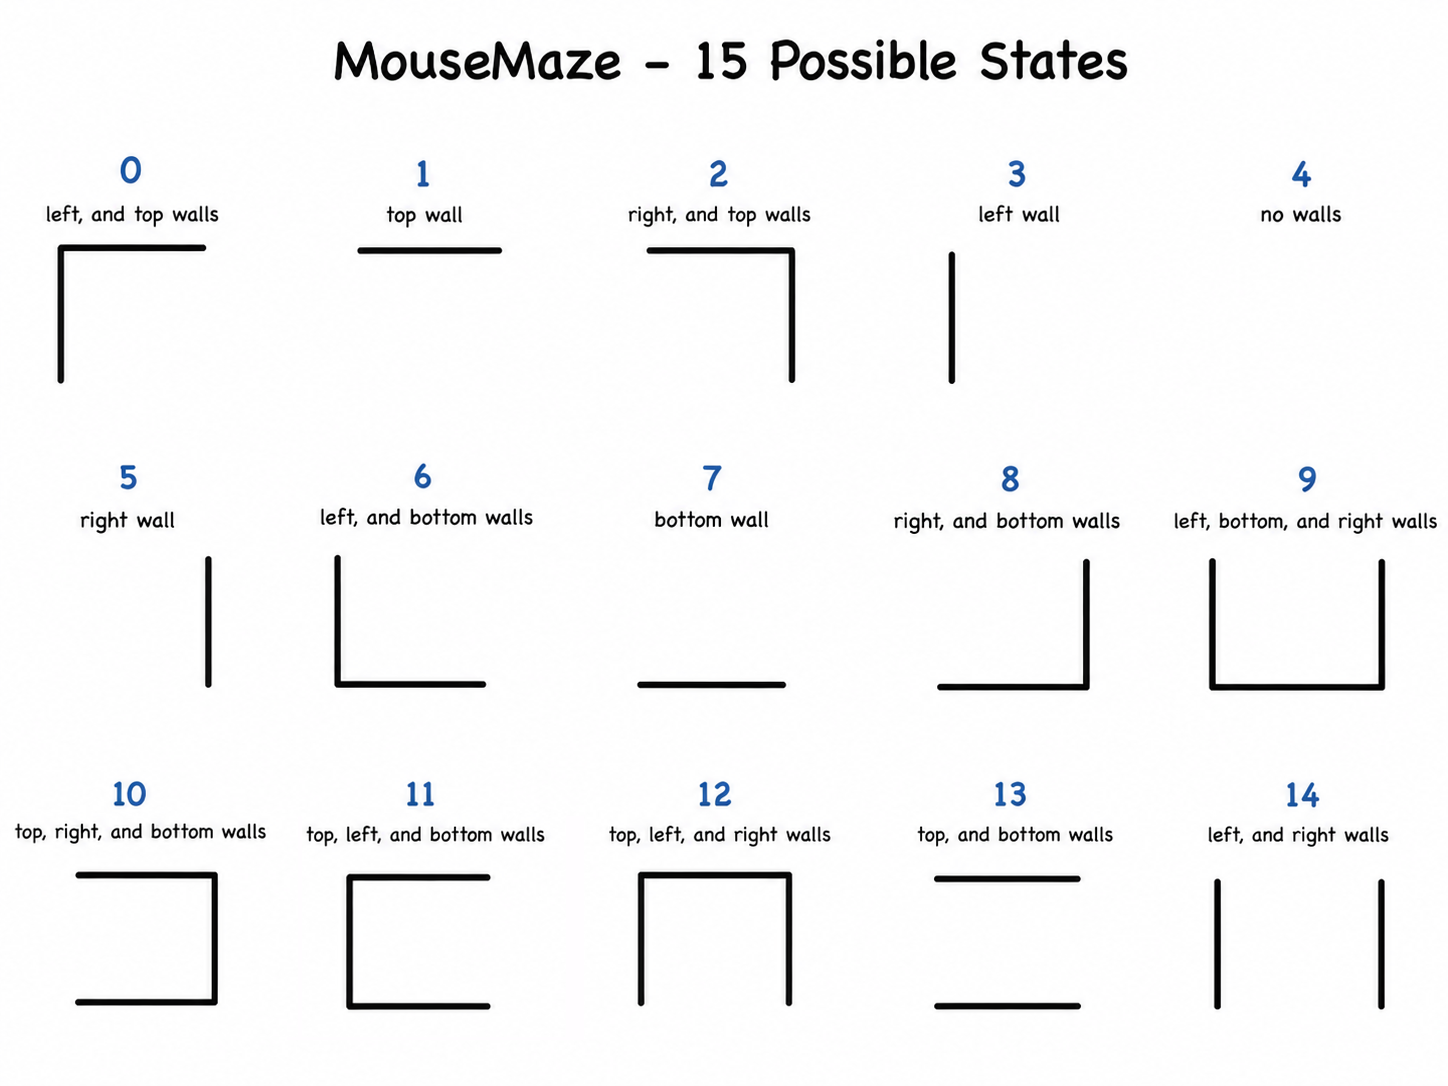
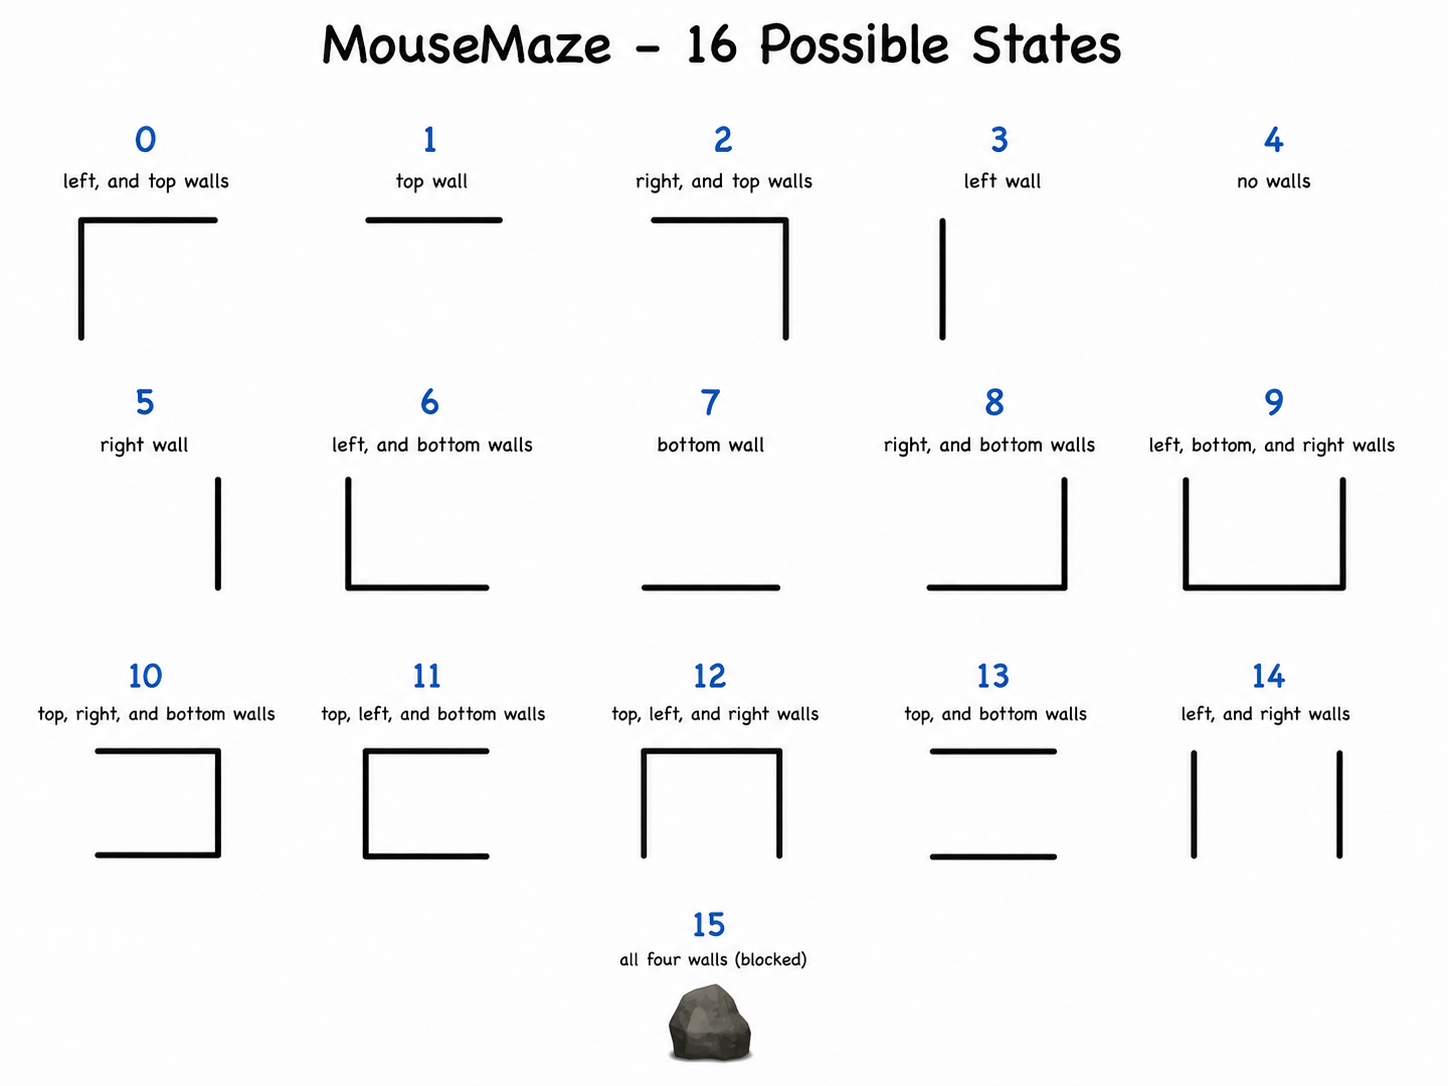
Added rocks

diff --git a/src/visualization.py b/src/visualization.py
@@ -12,8 +12,8 @@ import matplotlib.pyplot as plt
 import matplotlib.colors as mcolors
 import matplotlib.image as mpimg
 
-from environment import ACTION_SYMBOLS, is_terminal
-from maze_renderer import draw_maze
+from environment import ACTION_SYMBOLS, is_rock, is_terminal
+from maze_renderer import ROCK_CODE, draw_maze
 
 
 IMAGES_DIR = Path(__file__).resolve().parent.parent / 'images'
@@ -27,6 +27,7 @@ HARTY_IMAGE_PATHS = {
     'right': IMAGES_DIR / 'Harty_right.png',
 }
 HOLE_IMAGE_PATH = IMAGES_DIR / 'Dead.png'
+ROCK_IMAGE_PATH = IMAGES_DIR / 'Rock.png'
 PORTAL_IMAGE_PATHS = [
     IMAGES_DIR / 'Portal1.png',
     IMAGES_DIR / 'Portal2.png',
@@ -42,9 +43,11 @@ def make_value_colormap():
     """
     low = plt.cm.RdBu(np.linspace(0.0, 0.5, 128))      # red -> white
     high = plt.cm.PuOr(np.linspace(0.5, 1.0, 128))     # white -> purple
-    return mcolors.LinearSegmentedColormap.from_list(
+    cmap = mcolors.LinearSegmentedColormap.from_list(
         'value_cmap', np.vstack((low, high))
     )
+    cmap.set_bad('white')                              # NaN cells (rocks) stay blank
+    return cmap
 
 
 def plot_value_heatmap(ax, value, cmap=None, vmin=-1.0, vmax=1.0):
@@ -63,13 +66,15 @@ def plot_value_heatmap(ax, value, cmap=None, vmin=-1.0, vmax=1.0):
     )
 
 
-def overlay_policy_arrows(ax, policy, treasure=None, holes=(),
+def overlay_policy_arrows(ax, policy, treasure=None, holes=(), maze=None,
                           fontsize=18, color='black'):
-    """Write the action arrow at the center of each cell, skipping terminals."""
+    """Write the action arrow at the center of each cell, skipping terminals and rocks."""
     rows, cols = policy.shape
     for r in range(rows):
         for c in range(cols):
             if treasure is not None and is_terminal((r, c), treasure, holes):
+                continue
+            if maze is not None and is_rock((r, c), maze):
                 continue
             symbol = ACTION_SYMBOLS.get(policy[r, c], '')
             if symbol:
@@ -123,6 +128,10 @@ def load_hole_image():
     return mpimg.imread(HOLE_IMAGE_PATH)
 
 
+def load_rock_image():
+    return mpimg.imread(ROCK_IMAGE_PATH)
+
+
 def load_portal_image(pair_index):
     return mpimg.imread(PORTAL_IMAGE_PATHS[pair_index])
 
@@ -134,6 +143,16 @@ def overlay_holes(ax, holes):
     img = load_hole_image()
     for cell in holes:
         overlay_image_at_cell(ax, img, cell)
+
+
+def overlay_rocks(ax, maze):
+    """Stamp Rock.png on every cell whose wall code is ROCK_CODE (15)."""
+    rock_cells = np.argwhere(maze == ROCK_CODE)
+    if rock_cells.size == 0:
+        return
+    img = load_rock_image()
+    for r, c in rock_cells:
+        overlay_image_at_cell(ax, img, (int(r), int(c)))
 
 
 def overlay_portals(ax, portals):
@@ -165,8 +184,9 @@ def plot_policy_and_value(
 
     plot_value_heatmap(ax, value, cmap=cmap, vmin=vmin, vmax=vmax)
     draw_maze(ax, maze)
-    overlay_policy_arrows(ax, policy, treasure=treasure, holes=holes)
+    overlay_policy_arrows(ax, policy, treasure=treasure, holes=holes, maze=maze)
     overlay_holes(ax, holes)
+    overlay_rocks(ax, maze)
     overlay_portals(ax, portals)
     overlay_image_at_cell(ax, load_treasure_image(), treasure)
     overlay_image_at_cell(ax, load_harty_image(facing=harty_facing), harty)
@@ -200,6 +220,7 @@ def plot_value_only(
     plot_value_heatmap(ax, value, cmap=cmap, vmin=vmin, vmax=vmax)
     draw_maze(ax, maze)
     overlay_holes(ax, holes)
+    overlay_rocks(ax, maze)
     overlay_portals(ax, portals)
     overlay_image_at_cell(ax, load_treasure_image(), treasure)
     overlay_image_at_cell(ax, load_harty_image(facing=harty_facing), harty)

diff --git a/src/policy_iteration.py b/src/policy_iteration.py
@@ -13,16 +13,21 @@ cell is terminal (no bootstrap).
 
 import numpy as np
 
-from environment import ACTIONS, is_terminal, step
+from environment import ACTIONS, is_rock, is_terminal, step
+
+
+def _is_skip(cell, treasure, holes, maze):
+    """Cells with no value/policy: terminals (treasure + holes) and rocks."""
+    return is_terminal(cell, treasure, holes) or is_rock(cell, maze)
 
 
 def _random_deterministic_policy(maze, treasure, holes, rng):
-    """Random action at every non-terminal cell; blank string at every terminal."""
+    """Random action at every playable cell; blank at terminals and rocks."""
     rows, cols = maze.shape
     policy = np.empty((rows, cols), dtype=object)
     for r in range(rows):
         for c in range(cols):
-            if is_terminal((r, c), treasure, holes):
+            if _is_skip((r, c), treasure, holes, maze):
                 policy[r, c] = ''
             else:
                 policy[r, c] = rng.choice(ACTIONS)
@@ -57,7 +62,7 @@ def policy_evaluation(policy, treasure, gamma, maze, n_sweeps=100, tol=1e-6,
         q_new = np.zeros_like(q)
         for r in range(rows):
             for c in range(cols):
-                if is_terminal((r, c), treasure, holes):
+                if _is_skip((r, c), treasure, holes, maze):
                     continue
                 for a in ACTIONS:
                     q_new[r, c, _action_index(a)] = q_update(
@@ -74,12 +79,15 @@ def policy_evaluation(policy, treasure, gamma, maze, n_sweeps=100, tol=1e-6,
 def value_from_q(q_table, policy, treasure, maze, holes=()):
     """Collapse Q to state-value V by reading Q[s, policy(s)] at each cell.
 
-    Terminal cells (treasure + holes) keep V = 0.
+    Terminal cells (treasure + holes) and rocks keep V = NaN so plots mask them.
     """
     rows, cols = maze.shape
     v = np.zeros((rows, cols))
     for r in range(rows):
         for c in range(cols):
+            if is_rock((r, c), maze):
+                v[r, c] = np.nan
+                continue
             if is_terminal((r, c), treasure, holes):
                 continue
             v[r, c] = q_table[r, c, _action_index(policy[r, c])]
@@ -87,7 +95,7 @@ def value_from_q(q_table, policy, treasure, maze, holes=()):
 
 
 def greedy_policy(q_table, treasure, maze, rng=None, holes=()):
-    """Greedy policy from Q-table. Random tie-break, blank string at terminals."""
+    """Greedy policy from Q-table. Random tie-break, blank at terminals and rocks."""
     if rng is None:
         rng = np.random.default_rng()
 
@@ -96,7 +104,7 @@ def greedy_policy(q_table, treasure, maze, rng=None, holes=()):
 
     for r in range(rows):
         for c in range(cols):
-            if is_terminal((r, c), treasure, holes):
+            if _is_skip((r, c), treasure, holes, maze):
                 policy[r, c] = ''
                 continue
             row = q_table[r, c]
@@ -120,7 +128,7 @@ def uniform_random_policy_value(treasure, gamma, maze, n_sweeps=200, tol=1e-6,
         v_new = np.zeros_like(v)
         for r in range(rows):
             for c in range(cols):
-                if is_terminal((r, c), treasure, holes):
+                if _is_skip((r, c), treasure, holes, maze):
                     continue
                 total = 0.0
                 for a in ACTIONS:
@@ -136,6 +144,11 @@ def uniform_random_policy_value(treasure, gamma, maze, n_sweeps=200, tol=1e-6,
             v = v_new
             break
         v = v_new
+
+    for r in range(rows):
+        for c in range(cols):
+            if is_rock((r, c), maze):
+                v[r, c] = np.nan
 
     return v
 

diff --git a/src/environment.py b/src/environment.py
@@ -15,7 +15,7 @@ Two optional hazards extend the basic maze:
 
 import numpy as np
 
-from maze_renderer import WALL_CODES
+from maze_renderer import ROCK_CODE, WALL_CODES
 
 
 ACTIONS = ['up', 'down', 'left', 'right']
@@ -97,12 +97,18 @@ def apply_portal(position, portals):
     return position
 
 
+def is_rock(cell, maze):
+    """Rock cell (code 15) is impassable. Harty cannot stand on it."""
+    return int(maze[cell]) == ROCK_CODE
+
+
 def next_state(position, action, maze):
     """Return the cell reached by taking `action` from `position`.
 
     The action is blocked (agent stays put) if the current cell's wall code
-    forbids it, or if the move would leave the grid. Portals and hazards are
-    NOT applied here; see `step` for the full transition.
+    forbids it, the target cell is a rock, or the move would leave the grid.
+    Portals and hazards are NOT applied here; see `step` for the full
+    transition.
     """
     code = int(maze[position])
     if action in BLOCKED_ACTIONS_BY_CODE[code]:
@@ -114,6 +120,9 @@ def next_state(position, action, maze):
 
     rows, cols = maze.shape
     if not (0 <= next_row < rows and 0 <= next_col < cols):
+        return position
+
+    if is_rock((next_row, next_col), maze):
         return position
 
     return (next_row, next_col)

diff --git a/src/animation.py b/src/animation.py
@@ -21,6 +21,7 @@ from visualization import (
     overlay_image_at_cell,
     overlay_policy_arrows,
     overlay_portals,
+    overlay_rocks,
     plot_value_heatmap,
 )
 
@@ -110,8 +111,9 @@ def animate_path(
         plot_value_heatmap(ax, value, cmap=cmap, vmin=vmin, vmax=vmax)
     draw_maze(ax, maze)
     if policy is not None:
-        overlay_policy_arrows(ax, policy, treasure=treasure, holes=holes)
+        overlay_policy_arrows(ax, policy, treasure=treasure, holes=holes, maze=maze)
     overlay_holes(ax, holes)
+    overlay_rocks(ax, maze)
     overlay_portals(ax, portals)
     overlay_image_at_cell(ax, load_treasure_image(), treasure)
     if title:

diff --git a/src/play_mode.py b/src/play_mode.py
@@ -22,6 +22,7 @@ from visualization import (
     overlay_holes,
     overlay_image_at_cell,
     overlay_portals,
+    overlay_rocks,
 )
 
 
@@ -104,6 +105,7 @@ def launch_game_window(maze, treasure, start, holes=(), portals=(), figsize=(7, 
 
     draw_maze(ax, maze)
     overlay_holes(ax, holes)
+    overlay_rocks(ax, maze)
     overlay_portals(ax, portals)
     overlay_image_at_cell(ax, load_treasure_image(), treasure)
     initial_image = load_harty_image('idle')

diff --git a/src/maze_renderer.py b/src/maze_renderer.py
@@ -24,7 +24,10 @@ WALL_CODES = {
     12: {'top', 'left', 'right'},
     13: {'top', 'bottom'},
     14: {'left', 'right'},
+    15: {'top', 'right', 'bottom', 'left'},
 }
+
+ROCK_CODE = 15
 
 
 def cell_to_xy(cell):
